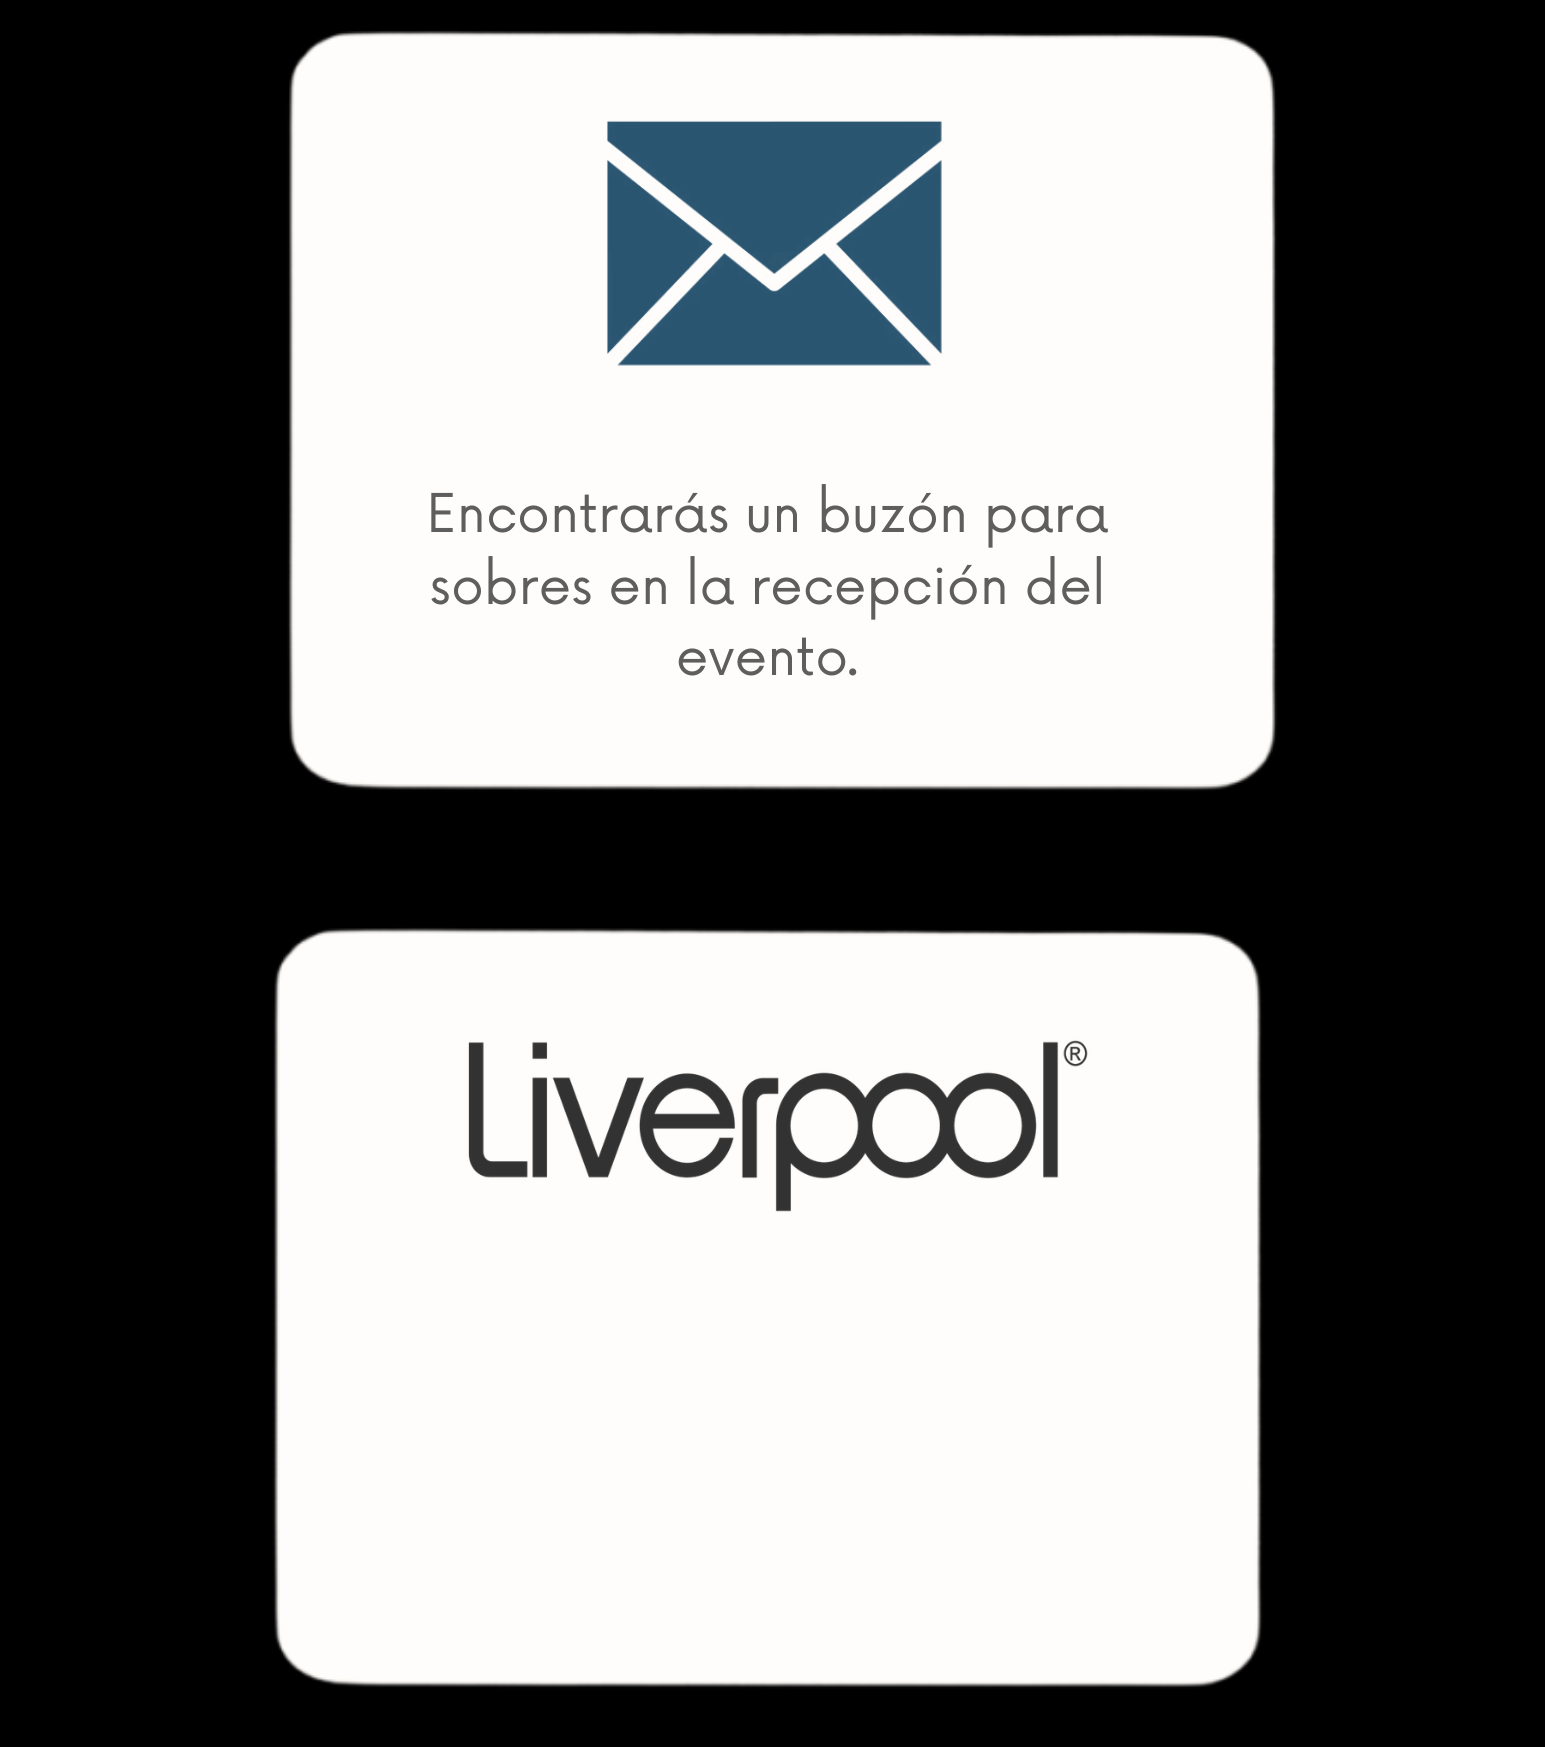
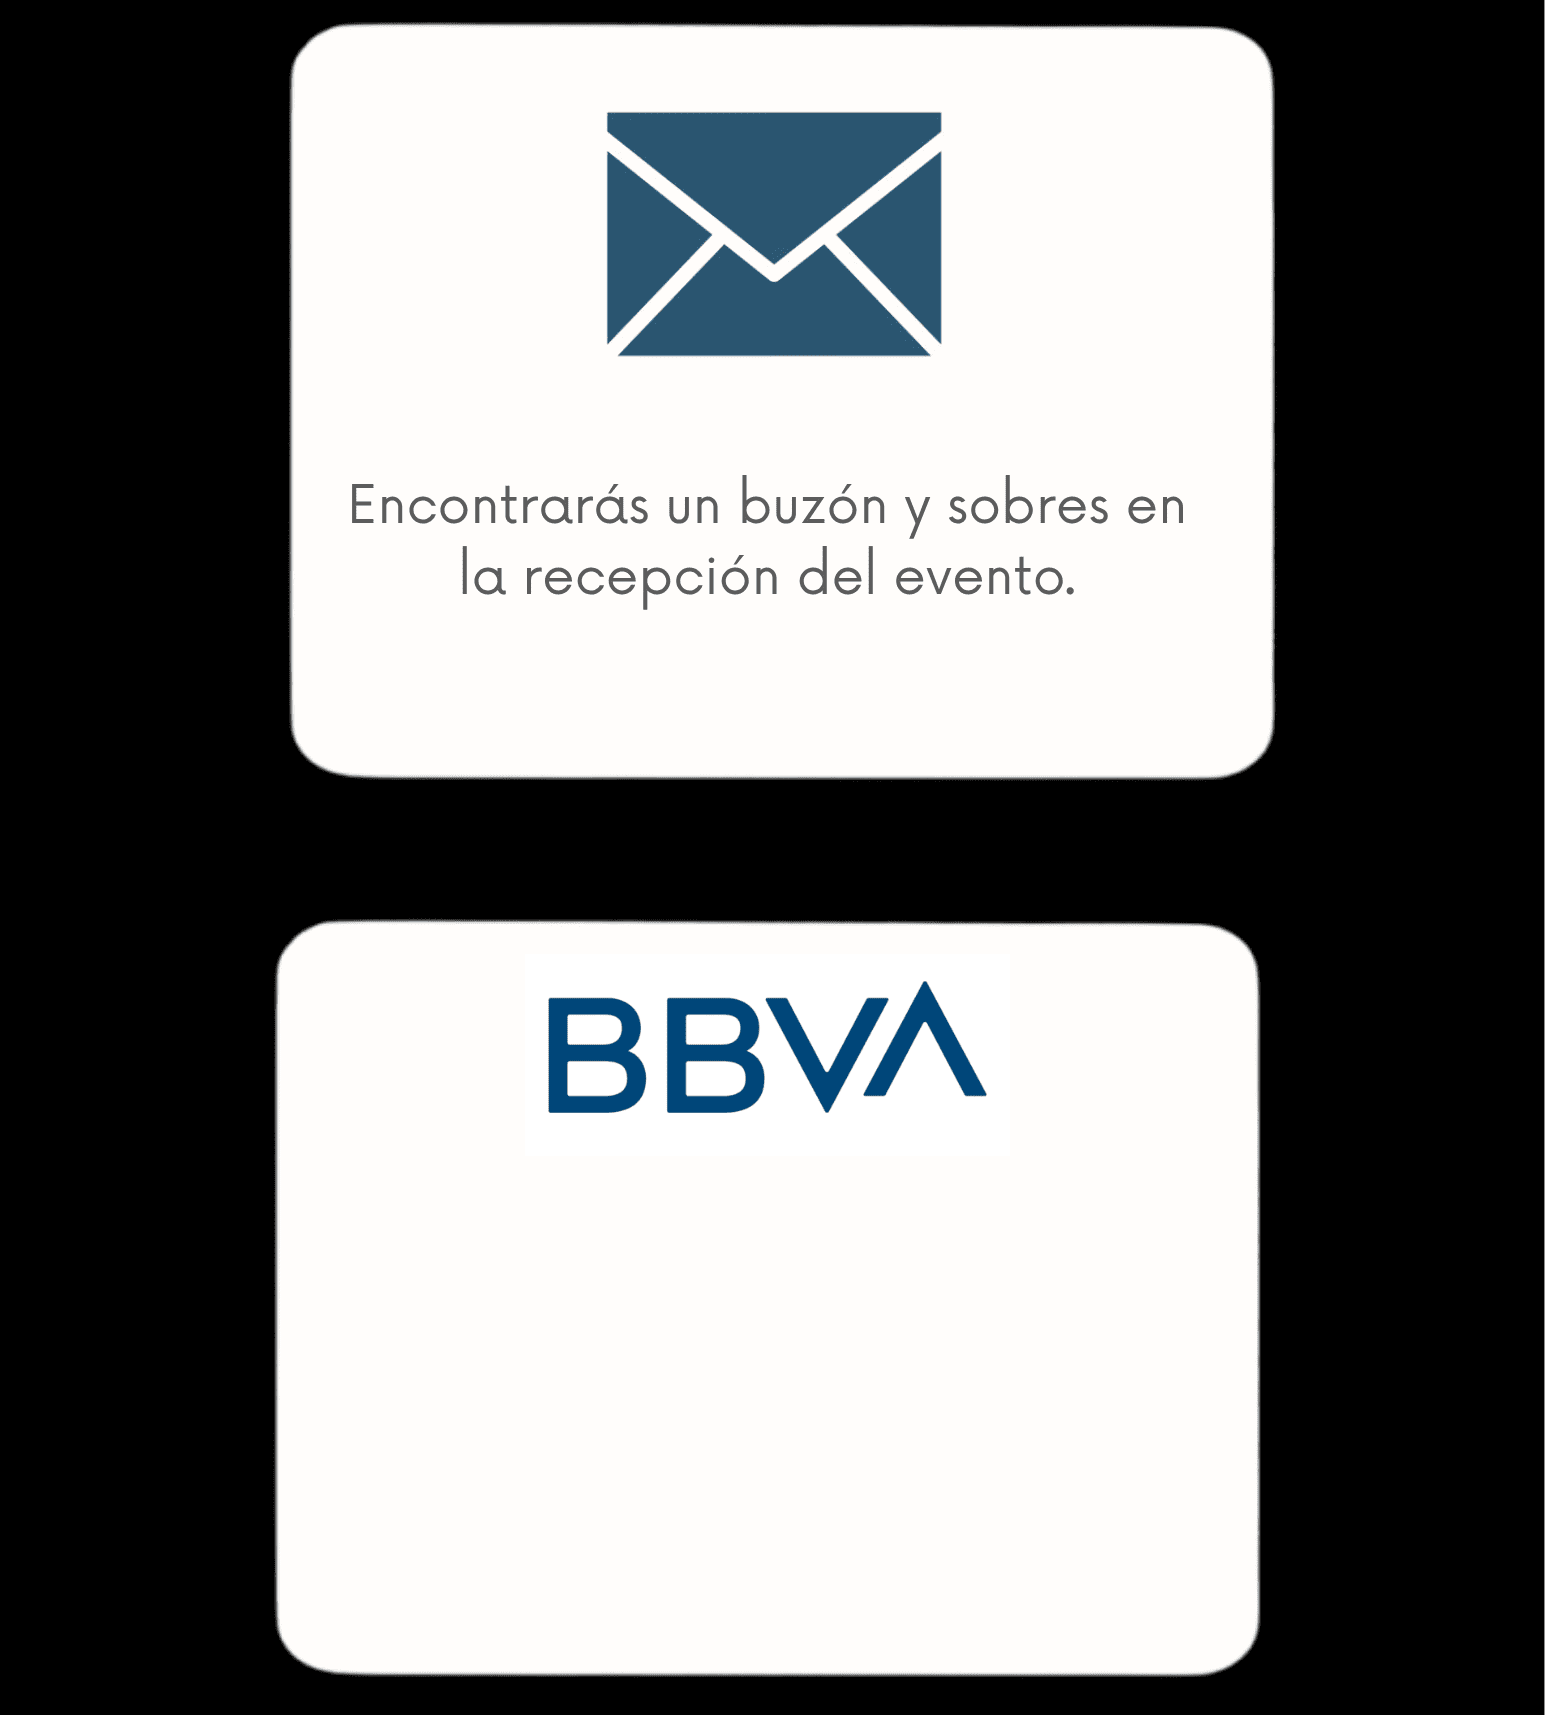
Se agrega datos bancarios a mesa de regalos

diff --git a/liliethyjorge/index.html b/liliethyjorge/index.html
@@ -398,29 +398,90 @@
     </section>
     ============================================================= -->
 
-    <!-- ============================================================
-         MESA DE REGALOS
-    ============================================================= -->
-    <section class="escena" id="regalos" data-section="regalos">
-      <img class="imagen-completa" src="assets/images/separador-4.png" alt="Código de vestimenta" loading="lazy" decoding="async">
+<!-- ============================================================
+     MESA DE REGALOS
+============================================================ -->
+<section class="escena" id="regalos" data-section="regalos">
 
-      <div class="escena__inner container">
-        <header class="escena__header center">
-          <p class="eyebrow">Sugerencia</p>
-          <h2 class="regalos-titulo">De regalos</h2>
-          <svg class="titulo-linea" viewBox="0 0 64 14" aria-hidden="true"><path d="M2,7 C 16,2 48,12 62,7" /></svg>
-        <p class="text-body-regalos">
-           Su presencia es nuestro mejor regalo, pero si desean hacernos algún obsequio, les compartimos algunas opciones:
-        </p>        
-        </header>
-        <div class="regalos__opciones">
-            <img class="historia__imagen" src="assets/images/lista_regalos.png" alt="" loading="lazy" decoding="async"/>
-            <a href="https://mesaderegalos.liverpool.com.mx/milistaderegalos/51975202" class="btn-regalos">
-Ver más 
-    </a>
-          </div>
+  <img
+    class="imagen-completa"
+    src="assets/images/separador-4.png"
+    alt="Código de vestimenta"
+    loading="lazy"
+    decoding="async"
+  >
+
+  <div class="escena__inner container">
+
+    <header class="escena__header center">
+
+      <p class="eyebrow">Sugerencia</p>
+
+      <h2 class="regalos-titulo">De regalos</h2>
+
+      <svg class="titulo-linea" viewBox="0 0 64 14" aria-hidden="true">
+        <path d="M2,7 C 16,2 48,12 62,7" />
+      </svg>
+
+      <p class="text-body-regalos">
+        Su presencia es nuestro mejor regalo, pero si desean hacernos algún
+        obsequio, les compartimos algunas opciones:
+      </p>
+
+    </header>
+
+
+    <div class="regalos__opciones">
+
+      <!-- IMAGEN CON LOS RECUADROS -->
+      <div class="regalos-imagen">
+
+        <img
+          class="historia__imagen"
+          src="assets/images/lista_regalos.png"
+          alt=""
+          loading="lazy"
+          decoding="async"
+        >
+
+        <!-- TEXTO SOBRE EL RECUADRO DE BBVA -->
+        <div class="datos-bbva">
+
+          <p class="datos-bbva__titular">
+            Jorge Zertuche
+          </p>
+          <p class="datos-bbva__titular">
+            Concepto: Nombre + boda
+          </p>
+          <p
+            class="datos-bbva__clabe"
+            id="numero-clabe"
+          >
+            012068015248290082
+          </p>
+
+          <button
+            type="button"
+            class="datos-bbva__boton"
+            id="copiar-cuenta"
+          >
+            Copiar CLABE
+          </button>
+
+          <span
+            class="datos-bbva__mensaje"
+            id="mensaje-copiado"
+          ></span>
+
+        </div>
+
       </div>
-    </section>
+
+    </div>
+
+  </div>
+
+</section>
 
 
 <!-- ============================================================

diff --git a/liliethyjorge/css/secciones.css b/liliethyjorge/css/secciones.css
@@ -1085,3 +1085,102 @@ color: var(--color-white);
         font-size: 24px;
     }
 }
+
+
+/* ============================================================
+   MESA DE REGALOS
+============================================================ */
+
+.regalos-imagen {
+  position: relative;
+  width: 100%;
+  max-width: 300px;
+  margin: 0 auto;
+}
+
+.regalos-imagen .historia__imagen {
+  display: block;
+  width: 100%;
+  height: auto;
+}
+
+
+/* ============================================================
+   DATOS BANCARIOS SOBRE LA IMAGEN
+============================================================ */
+
+.datos-bbva {
+  position: absolute;
+
+  top: 82%;
+  left: 50%;
+
+  width: 48%;
+
+  transform: translate(-50%, -50%);
+
+  text-align: center;
+}
+
+
+/* TITULAR */
+
+.datos-bbva__titular {
+  margin: 0 0 6px;
+
+  font-size: 10px;
+  line-height: 1.2;
+
+  color: #333;
+}
+
+
+/* CLABE */
+
+.datos-bbva__clabe {
+  margin: 0 0 8px;
+
+  font-family: monospace;
+  font-size: 11px;
+  line-height: 1.2;
+
+  color: #333;
+
+  /* Permite seleccionar la CLABE */
+  user-select: text;
+  -webkit-user-select: text;
+
+  cursor: text;
+}
+
+
+/* BOTÓN */
+
+.datos-bbva__boton {
+  padding: 5px 10px;
+
+  border: none;
+  border-radius: 20px;
+
+  background: #285775;
+  color: #fff;
+
+  font-family: inherit;
+  font-size: 10px;
+
+  cursor: pointer;
+}
+
+
+/* MENSAJE */
+
+.datos-bbva__mensaje {
+  display: block;
+
+  margin-top: 4px;
+
+  font-size: 7px;
+  line-height: 1;
+
+  color: #333;
+}

diff --git a/liliethyjorge/js/guest.js b/liliethyjorge/js/guest.js
@@ -495,3 +495,43 @@ window.addEventListener(
   "load",
   checkTimeline
 );
+
+const botonCopiar = document.getElementById("copiar-cuenta");
+const numeroClabe = document.getElementById("numero-clabe");
+const mensajeCopiado = document.getElementById("mensaje-copiado");
+
+if (botonCopiar && numeroClabe) {
+
+  botonCopiar.addEventListener("click", async () => {
+
+    const clabe = numeroClabe.textContent.trim();
+
+    try {
+
+      await navigator.clipboard.writeText(clabe);
+
+      botonCopiar.textContent = "¡Copiada!";
+      mensajeCopiado.textContent = "CLABE copiada";
+
+      setTimeout(() => {
+        botonCopiar.textContent = "Copiar CLABE";
+        mensajeCopiado.textContent = "";
+      }, 2000);
+
+    } catch (error) {
+
+      const seleccion = window.getSelection();
+      const rango = document.createRange();
+
+      rango.selectNodeContents(numeroClabe);
+
+      seleccion.removeAllRanges();
+      seleccion.addRange(rango);
+
+      mensajeCopiado.textContent =
+        "Presiona Ctrl + C para copiar";
+    }
+
+  });
+
+}
